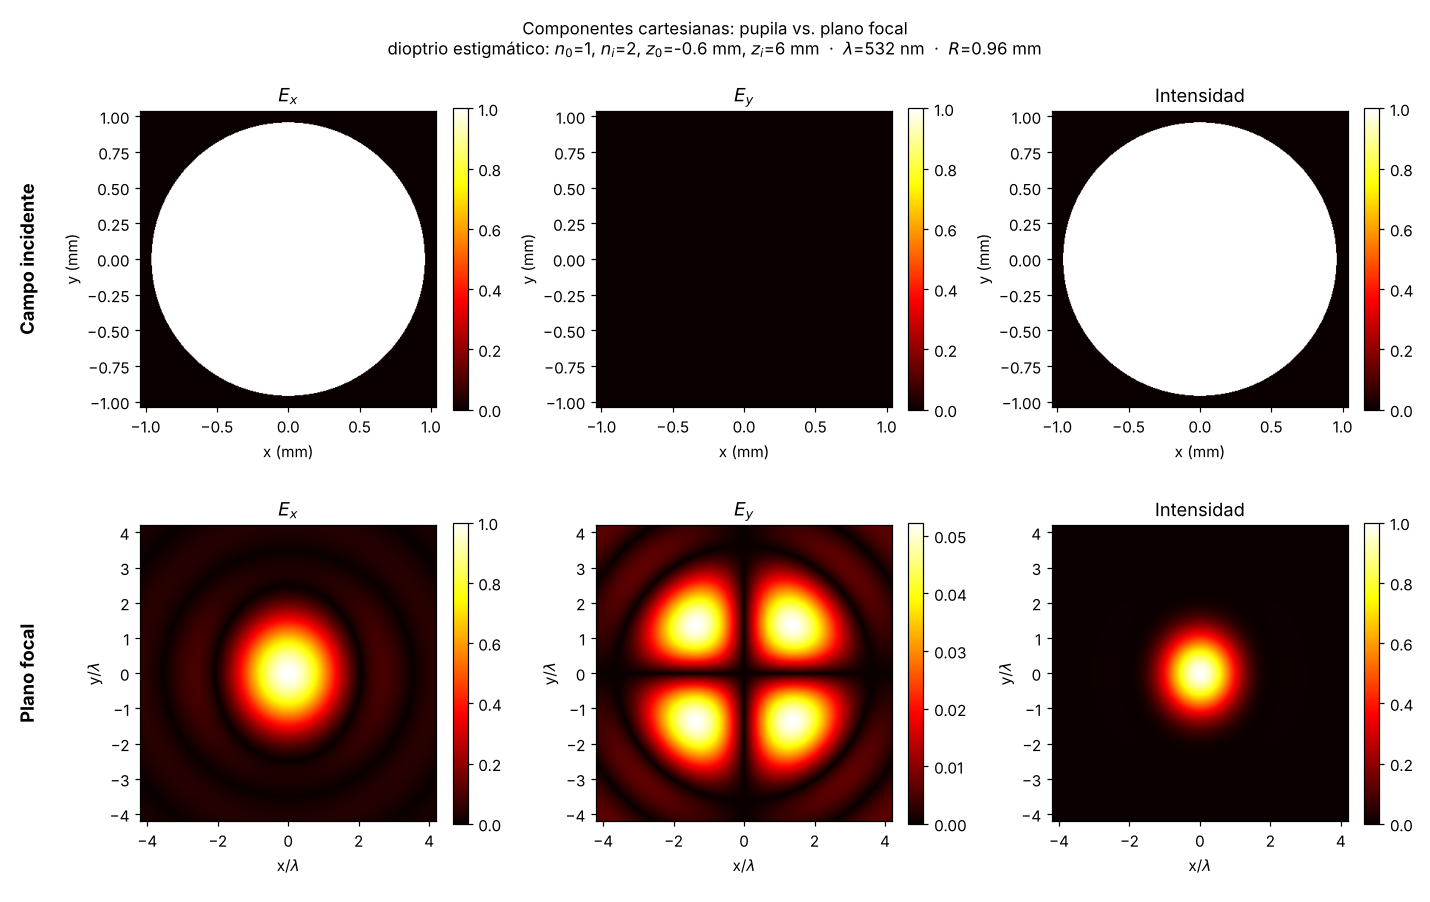
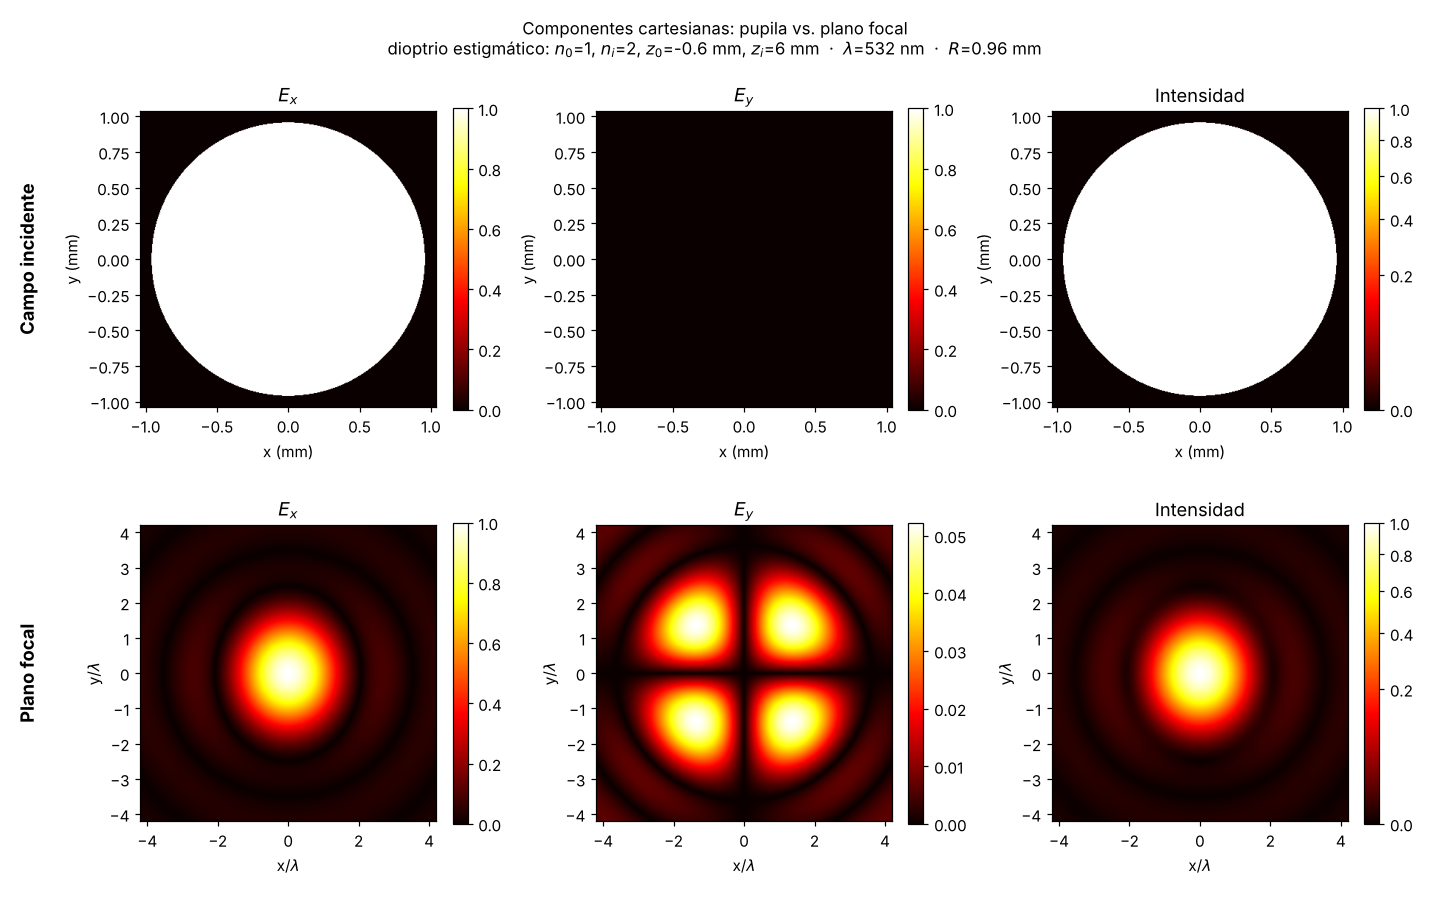
Mapas de intensidad con escala de color proporcional a la raíz de I
Los mapas de intensidad (componentes, mapas de polarización y radios del
punto focal) usan ahora la misma escala visual que las amplitudes |E_j|, de
modo que los máximos secundarios son visibles; las barras de color siguen
dando la intensidad. Nota en el texto del capítulo III.

Claude-Session: https://claude.ai/code/session_01LxF1B5Cauc2CXP1rT197wp

Changed region(s): [[0.7385, 0.5898, 0.9846, 0.9002], [0.9538, 0.1863, 0.9846, 0.2173]]

diff --git a/chapters/III.Campo_en_el_plano_focal_en_un_sistema_estigmatico_simple_refractivo.tex b/chapters/III.Campo_en_el_plano_focal_en_un_sistema_estigmatico_simple_refractivo.tex
@@ -2280,7 +2280,10 @@ En $t_-$ la contribución de Fresnel, $n_0(z_0-z_i)^2/[z_0^2z_i^2(n_0+n_i)]$, y 
 
 Así, $t_+(0)=4n_0/(n_0+n_i)\neq 0$ mientras que $t_-(0)=0$: el coeficiente de mezcla es nulo sobre el eje y crece cuadráticamente alejándose de él. A esto se añade que $J_2(0)=0$, de modo que tanto el coeficiente $t_-$ como la función de Bessel $J_2$ se anulan simultáneamente en el origen, suprimiendo la conversión de helicidad en el eje. En contraste, $J_0(0)=1$ y $t_+(0)\neq 0$ garantizan que el término diagonal sí contribuye en el eje, generando un brillo central en el plano focal.
 
-Esto se confirma para una entrada circular en la figura~\ref{fig:circular-plano-focal-componentes}. En el plano focal domina el canal de la misma helicidad, con centro brillante, mientras que en la componente de helicidad opuesta aparece la conversión parcial inducida por $t_-$: un anillo con centro oscuro, consecuencia directa de que $t_-(0)=0$ y $J_2(0)=0$ suprimen la conversión sobre el eje. El mapa de polarización de la figura~\ref{fig:circular-plano-focal-mapa-polarizacion} muestra cómo esta conversión modifica espacialmente el estado local de polarización, y la figura~\ref{fig:circular-plano-focal-mapas-escalares} separa dicha variación en los ángulos $\chi$ y $\psi$.
+Esto se confirma para una entrada circular en la figura~\ref{fig:circular-plano-focal-componentes}. En el plano focal domina el canal de la misma helicidad, con centro brillante, mientras que en la componente de helicidad opuesta aparece la conversión parcial inducida por $t_-$: un anillo con centro oscuro, consecuencia directa de que $t_-(0)=0$ y $J_2(0)=0$ suprimen la conversión sobre el eje. El mapa de polarización de la figura~\ref{fig:circular-plano-focal-mapa-polarizacion} muestra cómo esta conversión modifica espacialmente el estado local de polarización, y la figura~\ref{fig:circular-plano-focal-mapas-escalares} separa dicha variación en los ángulos $\chi$ y $\psi$. En estos y en los siguientes mapas de intensidad la escala de color es
+proporcional a $\sqrt I$, la misma con que se muestran las amplitudes $|E_j|$,
+para que los máximos secundarios sean visibles; las barras de color dan la
+intensidad.
 
 \begin{figure}[H]
   \centering
